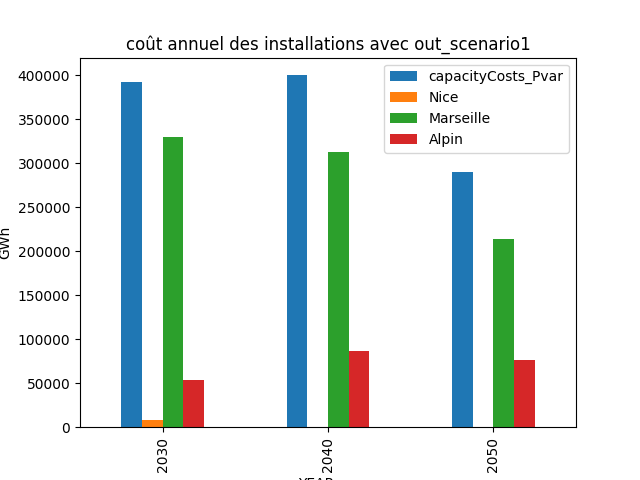
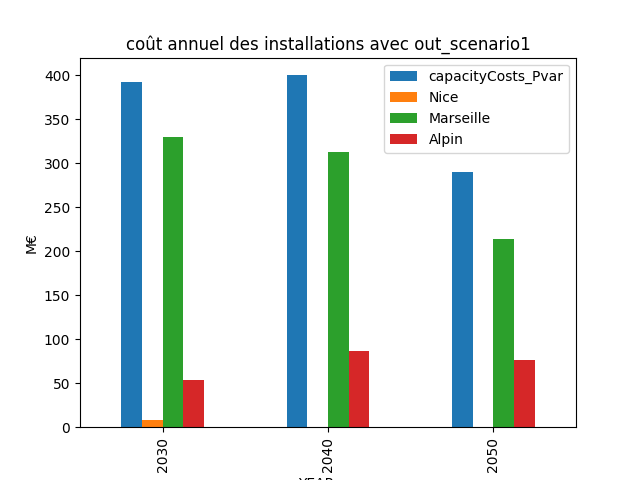
ptit chgts

diff --git a/plot_results2.py b/plot_results2.py
@@ -38,7 +38,7 @@ def show_power_Dvar(outputFolder = 'out_scenario1'):
     df_year.plot(kind='bar')
     plt.ylabel('GWh')
     plt.legend()
-    plt.title(f'puissance de fonctionnement des technologies avec {outputFolder}')
+    plt.title(f'énergie annuelle de fonctionnement des technologies avec {outputFolder}')
     plt.savefig(f'show_power_Dvar_{outputFolder}')
 
 
@@ -150,17 +150,17 @@ def show_capacityCosts(outputFolder = 'out_scenario1'):
 
     # affichage
     # return df_year
-    df_year /= 1e3
+    df_year /= 1e6
     df_year.plot(kind='bar')
-    plt.ylabel('GWh')
+    plt.ylabel('M€')
     plt.legend()
     plt.title(f'coût annuel des installations avec {outputFolder}')
     plt.savefig(f'show_capacityCosts_Pvar_{outputFolder}')
 
 # TRACE GRAPHES
 for i in range(1,3):
-    # show_power_Dvar(f'out_scenario{i}')
-    # show_import_Dvar(f'out_scenario{i}')
-    # show_capacityCosts(f'out_scenario{i}')
+    show_power_Dvar(f'out_scenario{i}')
+    show_import_Dvar(f'out_scenario{i}')
+    show_capacityCosts(f'out_scenario{i}')
     show_Tmax_tot(f'out_scenario{i}')
 plt.show()

diff --git a/scenarios.py b/scenarios.py
@@ -62,16 +62,16 @@ def demande_h_area(scenar, area, k):
     if scenar == 0 :
         demande_t_an = [100, 150, 175, 200]
     elif scenar == 1 :
-        demande_t_an = [100, 296, 381, 571]
+        demande_t_an = [100, 296, 381, 571]  # croissant
     elif scenar == 2 :
-        demande_t_an = [100, 248, 239, 236] 
+        demande_t_an = [100, 248, 239, 236]  # pic en 2030
     elif scenar == 3 :
         demande_t_an = [100, 248, 239, 236] 
 
     if area == "Nice" :
-        return (0.2 * 33.e3 / 8760) * demande_t_an[k] * np.ones(nHours)
+        return (0.2 * 33.e3 / 8760) * demande_t_an[k] * np.ones(nHours)  # 20% de la demande à Fos
     elif area == "Alpin" : 
-        return (0.1 * 33.e3 / 8760) * demande_t_an[k] * np.ones(nHours)
+        return (0.1 * 33.e3 / 8760) * demande_t_an[k] * np.ones(nHours)  # 10% de la demande à Fos
     else :
         return (0.7 * 33.e3 / 8760) * demande_t_an[k] * np.ones(nHours)
 
